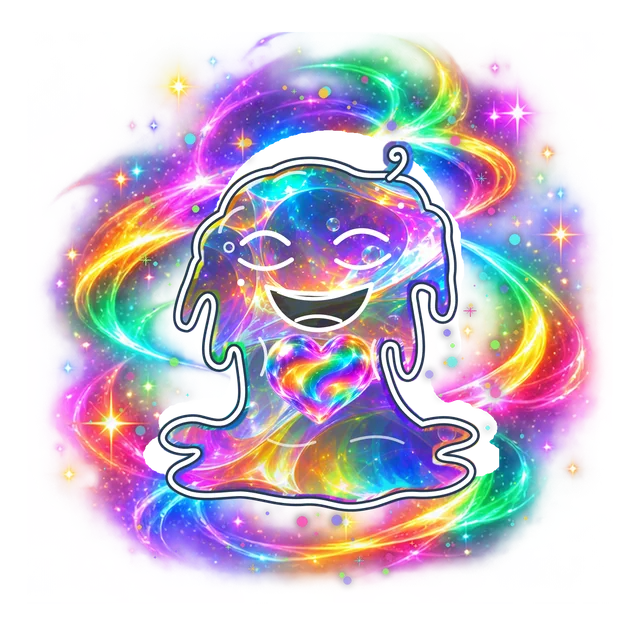
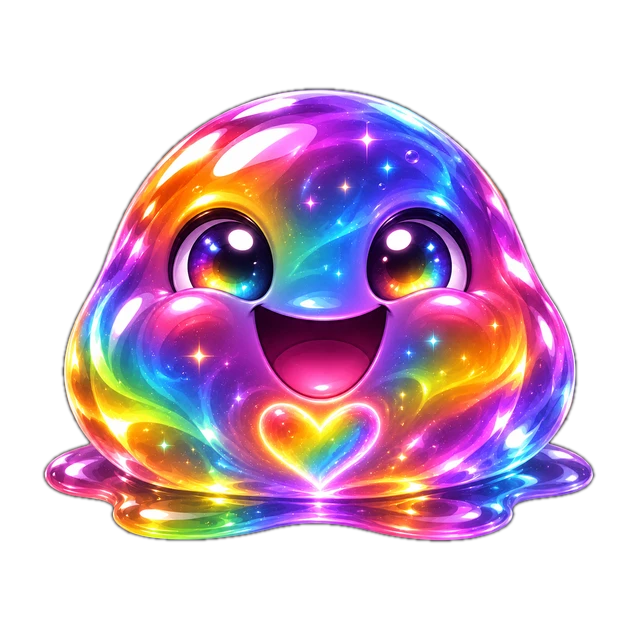
Rainbow Flubb pet: painted art with wobble, aura and sparkles; book images updated
Claude-Session: https://claude.ai/code/session_01QqMC3jV4Jm9bLjV1D99fiy

diff --git a/oneshots/this-and-that/flask-game/index.html b/oneshots/this-and-that/flask-game/index.html
@@ -201,7 +201,8 @@ const FX=(()=>{const P=2.6;let S=null,raf=0;
   // jelly shine sweeping across
   c.save();bodyClip(c,W);const sx=((t*0.25)%1.6-0.3)*W,g=c.createLinearGradient(sx-W*.15,0,sx+W*.15,W*.3);g.addColorStop(0,'rgba(255,255,255,0)');g.addColorStop(.5,'rgba(255,255,255,.16)');g.addColorStop(1,'rgba(255,255,255,0)');c.fillStyle=g;c.fillRect(0,0,W,W*.75);
   // heart, seen through the jelly
-  if(st.heart){const hc=st.heart==='rainbow'?rh(0):{squishy:'#ff9cc0',puffy:'#ff5a7a',dense:'#d0103a'}[st.heart],sz={squishy:.045,puffy:.055,dense:.065,rainbow:.055}[st.heart],hb=1+0.14*Math.max(0,Math.sin(ph*2))**3;
+  const allR=CATS.every(k=>st[k]==='rainbow');
+  if(st.heart&&!allR){const hc=st.heart==='rainbow'?rh(0):{squishy:'#ff9cc0',puffy:'#ff5a7a',dense:'#d0103a'}[st.heart],sz={squishy:.045,puffy:.055,dense:.065,rainbow:.055}[st.heart],hb=1+0.14*Math.max(0,Math.sin(ph*2))**3;
    c.globalCompositeOperation='screen';c.globalAlpha=.8;c.shadowColor=hc;c.shadowBlur=W*.07;c.fillStyle=hc;heartP(c,W*.5,W*.665,W*sz*hb);c.fill();c.globalCompositeOperation='lighter';c.globalAlpha=.35;c.fill();c.shadowBlur=0;c.globalAlpha=1;c.globalCompositeOperation='source-over'}
   // skin
   if(st.skin==='flexible'){c.strokeStyle='rgba(150,255,150,.55)';c.lineWidth=W*.012;c.beginPath();S.sil.pts.forEach((q,i)=>{const y=q[1]+Math.sin(t*3+i*.3)*.003;i?c.lineTo(q[0]*W,y*W):c.moveTo(q[0]*W,y*W)});c.closePath();c.stroke()}
@@ -211,7 +212,7 @@ const FX=(()=>{const P=2.6;let S=null,raf=0;
    S.sil.pts.forEach((q,i)=>{if(i%9===0&&q[1]<0.6){c.fillStyle='#fff0b0';c.beginPath();c.arc(q[0]*W,q[1]*W,W*.007,0,7);c.fill()}});c.restore()}
   if(st.skin==='crystal'){c.save();S.cry=S.cry||S.sil.pts.filter((q,i)=>i%11===0&&q[1]<0.7).map(q=>[q[0]+(S.sil.cx-q[0])*.08,q[1]+(S.sil.cy-q[1])*.08,Math.random()*6]);
    for(const [x,y,o] of S.cry){const tw=.5+.5*Math.sin(t*3+o),r=W*.022;c.fillStyle=`rgba(190,235,255,${.55+.4*tw})`;c.strokeStyle='rgba(255,255,255,.9)';c.lineWidth=1;c.beginPath();c.moveTo(x*W,y*W-r);c.lineTo(x*W+r*.5,y*W);c.lineTo(x*W,y*W+r*.6);c.lineTo(x*W-r*.5,y*W);c.closePath();c.fill();c.stroke()}c.restore()}
-  if(st.skin==='rainbow'){c.save();c.lineWidth=W*.01;c.strokeStyle=rh(0);c.globalAlpha=.6;c.beginPath();S.sil.pts.forEach((q,i)=>i?c.lineTo(q[0]*W,q[1]*W):c.moveTo(q[0]*W,q[1]*W));c.closePath();c.stroke();c.restore()}
+  if(st.skin==='rainbow'&&!allR){c.save();c.lineWidth=W*.01;c.strokeStyle=rh(0);c.globalAlpha=.6;c.beginPath();S.sil.pts.forEach((q,i)=>i?c.lineTo(q[0]*W,q[1]*W):c.moveTo(q[0]*W,q[1]*W));c.closePath();c.stroke();c.restore()}
   // ichor, round the puddle
   if(st.ichor&&st.ichor!=='rainbow'){c.save();const xs=[.14,.24,.34,.66,.76,.86,.2,.8];
    xs.forEach((x,i)=>{const y=.80+((i*37)%5)*.006,k=1+.06*Math.sin(t*2+i);
@@ -223,7 +224,8 @@ const FX=(()=>{const P=2.6;let S=null,raf=0;
 
 function render(el,m,st){const anyR=CATS.some(c=>st[c]==='rainbow');
  const ess=(st.essence&&st.essence!=='rainbow')?st.essence:'bouncing';
- const body=m==='flask'?IMG('flask-blank'):IMG(`flubb-${ess}-${anyR?'happy':'angry'}`,st.essence==='rainbow'?'rainhue':'');
+ const allR=CATS.every(c=>st[c]==='rainbow');
+ const body=m==='flask'?IMG('flask-blank'):allR?IMG('rainbow-pet'):IMG(`flubb-${ess}-${anyR?'happy':'angry'}`,st.essence==='rainbow'?'rainhue':'');
  el.classList.toggle('flaskmode',m==='flask');
  el.innerHTML=`<div class="shadow"></div><canvas class="fxb"></canvas><canvas class="fxl"></canvas><div class="body">${body}</div><canvas class="fxf"></canvas>`;
  FX.attach(el,m,st)}
@@ -246,7 +248,7 @@ $('pw').addEventListener('input',()=>{if($('note').classList.contains('bad'))not
 $('pour').addEventListener('click',()=>{const fs=$('flaskStage');fs.classList.add('shake');$('pour').classList.add('hidden');note('The bubbles stop. Everything goes very quiet...');
  setTimeout(()=>{fs.classList.remove('shake');S.poured=true;save();showResult(true)},1900)});
 function showResult(anim){const rain=CATS.every(c=>S[c]==='rainbow');$('flaskStage').classList.add('hidden');const os=$('oozeStage');os.classList.remove('hidden');
- if(rain){os.innerHTML=IMG('rainbow-pet','pet');os.classList.add('pop')}
+ if(rain){render(os,'ooze',S);os.classList.add('pop')}
  else{render(os,'ooze',S);if(anim)os.classList.add('pop')}
  
  $('play').classList.add('hidden');$('result').classList.remove('hidden');
